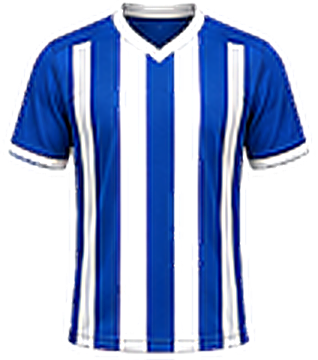
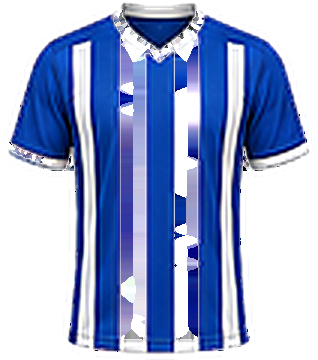
fix(kit-render): stop white-glow-on-white-shirt noise, repair holed kit PNGs
Root cause of "white shirts still struggling": buildPlayerCardElement's
drop-shadow glow always used a club's primary color to hide low-res kit
PNG edge jaggies. For the 12 white-primary clubs (Bromley, Fulham, Spurs,
Leeds, Derby, Preston, Swansea, Bolton, MK Dons, Port Vale, Tranmere,
Tottenham) that's a white glow behind a white shirt on a dark card - it
doesn't add contrast, it smears the PNG's low-res alpha edge into visible
white noise. Now falls back to the club's secondary color whenever
primary is near-white.

Separately, pixel-scanned all 92 kit PNGs and found 10 with genuine holes
punched through the alpha channel in the torso (not just edge noise) -
the old white glow was accidentally masking this too. Repaired via
morphological closing + fill_holes + nearest-neighbor color fill (reuses
real pixel data already in each image, invents nothing). Clean results:
swansea-city, leeds-united, tottenham-hotspur, accrington-stanley,
colchester-united, cheltenham-town. Partial improvement only: bromley,
exeter-city. Barely moved: crawley-town, bolton-wanderers - their outer
silhouette has an open gap in the source art that no amount of hole-
closing can bridge; these two need genuinely new source artwork.

diff --git a/frontend-v2/src/lib/playerCard.ts b/frontend-v2/src/lib/playerCard.ts
@@ -51,6 +51,27 @@ const NAVY = { 950: "#050b16", 900: "#0b1524", 850: "#0f1c30", 800: "#14203a", 7
 const SKY = { 400: "#38bdf8" };
 const INK = "#03050b";
 
+// Picks which of a club's two colors should glow behind the kit render.
+// 2026-08-20 user report ("white shirts still struggling"): for a white-
+// primary club (Fulham, Tottenham, Derby, Bromley, 12 in total - see
+// teamColors.ts) the drop-shadow below used to always glow with `primary`,
+// i.e. white behind a white shirt on the dark backdrop - that doesn't add a
+// rim of contrast the way it does for a colored kit, it just smears the
+// low-res PNG's already-jagged edge into visible white noise (confirmed
+// against a real rendered Bromley card). Falls back to `secondary` whenever
+// primary is near-white, giving a dark rim that actually hides the jaggies
+// instead of amplifying them.
+function isNearWhite(hex: string): boolean {
+  const n = parseInt(hex.replace("#", ""), 16);
+  const r = (n >> 16) & 255;
+  const g = (n >> 8) & 255;
+  const b = n & 255;
+  return (r * 299 + g * 587 + b * 114) / 1000 > 235;
+}
+function kitGlowColor(colors: { primary: string; secondary: string }): string {
+  return isNearWhite(colors.primary) ? colors.secondary : colors.primary;
+}
+
 const CONFIDENCE_COLORS: Record<string, { bg: string; fg: string }> = {
   High: { bg: "#0f3d2e", fg: "#34d399" },
   Medium: { bg: "#4a2c06", fg: "#fbbf24" },
@@ -482,7 +503,7 @@ export function buildPlayerCardElement(input: PlayerCardInput) {
               src: kitDataUri,
               width: s(208),
               height: s(224),
-              style: { objectFit: "contain", filter: `drop-shadow(0px 0px ${s(14)}px ${colors.primary}99)` },
+              style: { objectFit: "contain", filter: `drop-shadow(0px 0px ${s(14)}px ${kitGlowColor(colors)}99)` },
             })
           : h(
               "div",
